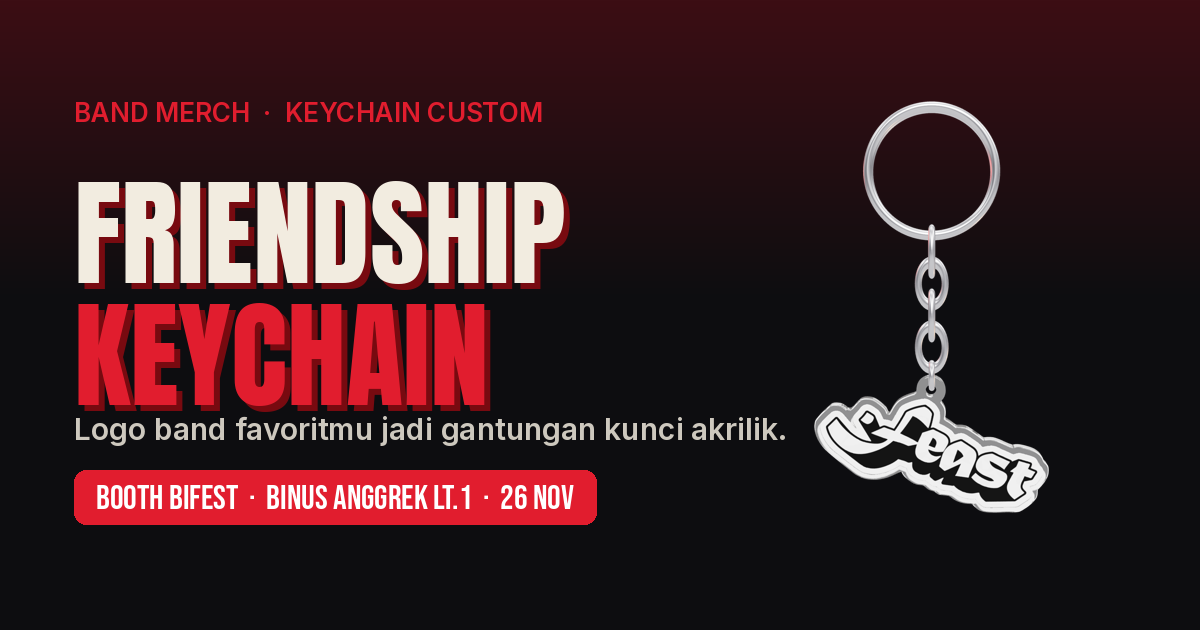
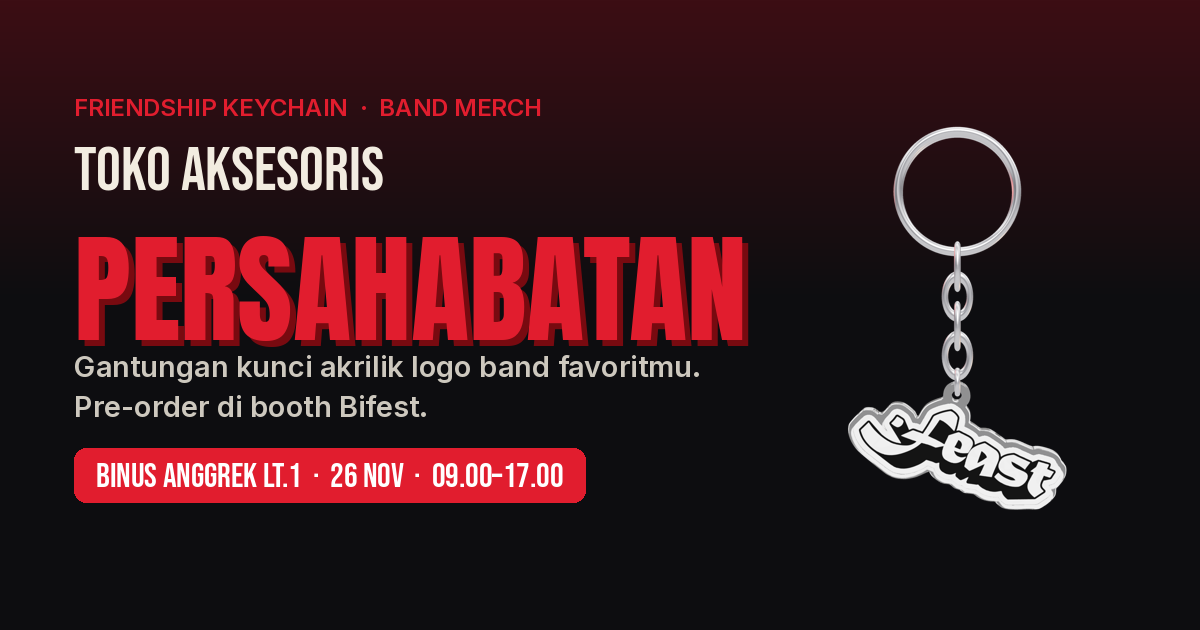
OG image pakai nama toko, tambah tombol Bagikan, sitemap.xml & robots.txt

Changed region(s): [[0.0617, 0.1508, 0.6475, 0.8444], [0.6783, 0.1508, 0.8942, 0.8143]]

diff --git a/index.html b/index.html
@@ -63,7 +63,10 @@
       <h2>Punya logo band sendiri?</h2>
       <p>Upload logo bandmu di editor 3D, tambahkan tulisan, dan bentuk akriliknya dipotong mengikuti outline logo.</p>
     </div>
-    <a class="btn" href="desain.html">Bikin merch bandmu</a>
+    <div class="cta-actions">
+      <a class="btn" href="desain.html">Bikin merch bandmu</a>
+      <button class="btn ghost" id="shareBtn" type="button">Bagikan toko</button>
+    </div>
   </section>
 </main>
 
@@ -77,6 +80,19 @@
   document.querySelectorAll('.igLink').forEach(a => a.href = SHOP_UTIL.igUrl());
   document.querySelectorAll('.igHandle').forEach(a => a.textContent = '@' + SHOP.instagram);
   for (const k of ['nama', 'lokasi', 'hari', 'jam']) document.querySelectorAll('.js-event-' + k).forEach(e => e.textContent = SHOP.event[k]);
+
+  // Share button: native share sheet on phones, otherwise copy the link
+  const shareBtn = document.getElementById('shareBtn');
+  if (shareBtn) {
+    const url = location.href.split(/[?#]/)[0];
+    const data = { title: SHOP.nama, text: 'Gantungan kunci akrilik logo band custom - ' + SHOP.nama, url };
+    shareBtn.onclick = async () => {
+      if (navigator.share) { try { await navigator.share(data); return; } catch (e) { if (e.name === 'AbortError') return; } }
+      try { await navigator.clipboard.writeText(url); shareBtn.textContent = 'Link tersalin!'; }
+      catch { shareBtn.textContent = url; }
+      setTimeout(() => (shareBtn.textContent = 'Bagikan toko'), 2500);
+    };
+  }
 
   // Videos play (muted, looping) only while visible, to save battery/data on phones
   const io = 'IntersectionObserver' in window ? new IntersectionObserver(entries => {

diff --git a/assets/site.css b/assets/site.css
@@ -117,6 +117,9 @@ img { max-width: 100%; display: block; }
 .cta h2 { margin: 0 0 4px; font-family: var(--display); font-weight: 400; font-size: 36px; letter-spacing: .04em; line-height: 1; }
 .cta p { margin: 0; opacity: .92; }
 .cta .btn { background: var(--paper); color: #111; }
+.cta-actions { display: flex; gap: 10px; flex-wrap: wrap; align-items: center; }
+.cta-actions .btn.ghost { background: transparent; color: #fff; border-color: rgba(255,255,255,.6); box-shadow: none; }
+@media (max-width: 560px) { .cta-actions { width: 100%; } .cta-actions .btn { flex: 1; } }
 
 /* ---- Pre-order form ---- */
 .po { display: grid; grid-template-columns: 1fr 340px; gap: 20px; align-items: start; }

diff --git a/README.md b/README.md
@@ -100,6 +100,8 @@ Atau aktifkan **GitHub Pages** (Settings → Pages → Deploy from branch `main`
 - **QR code** (di folder `docs/`): `qr-poster.png` (poster siap cetak, ke katalog) dan `qr-preorder-poster.png` (langsung ke form pre-order). Versi tanpa teks: `qr-plain.png` / `qr-preorder-plain.png`. Tinggal cetak buat booth atau taruh di story.
 - **Preview sosmed (Open Graph):** `og-image.png` (1200x630) muncul saat link di-share di Instagram/WhatsApp/X. Judul & deskripsi diatur lewat meta tag di tiap halaman.
 - **Favicon & icon:** `favicon.svg`, `icon-180.png`, `icon-512.png`.
-- Semua di-generate dari `.kiro/artifacts/compose.py` + `make-assets.cjs` — jalankan ulang kalau ganti link atau desain.
+- **SEO:** `sitemap.xml` + `robots.txt` (daftarkan di [Google Search Console](https://search.google.com/search-console) biar keindeks).
+- **Tombol "Bagikan toko"** di katalog: share sheet HP, atau fallback salin link.
+- Semua gambar di-generate dari `.kiro/artifacts/compose.py` + `make-assets.cjs` — jalankan ulang kalau ganti link atau desain.
 
 > Ganti link: cari `friendshipmerch.vercel.app` di `index.html`, `desain.html`, `preorder.html`, lalu generate ulang QR.
